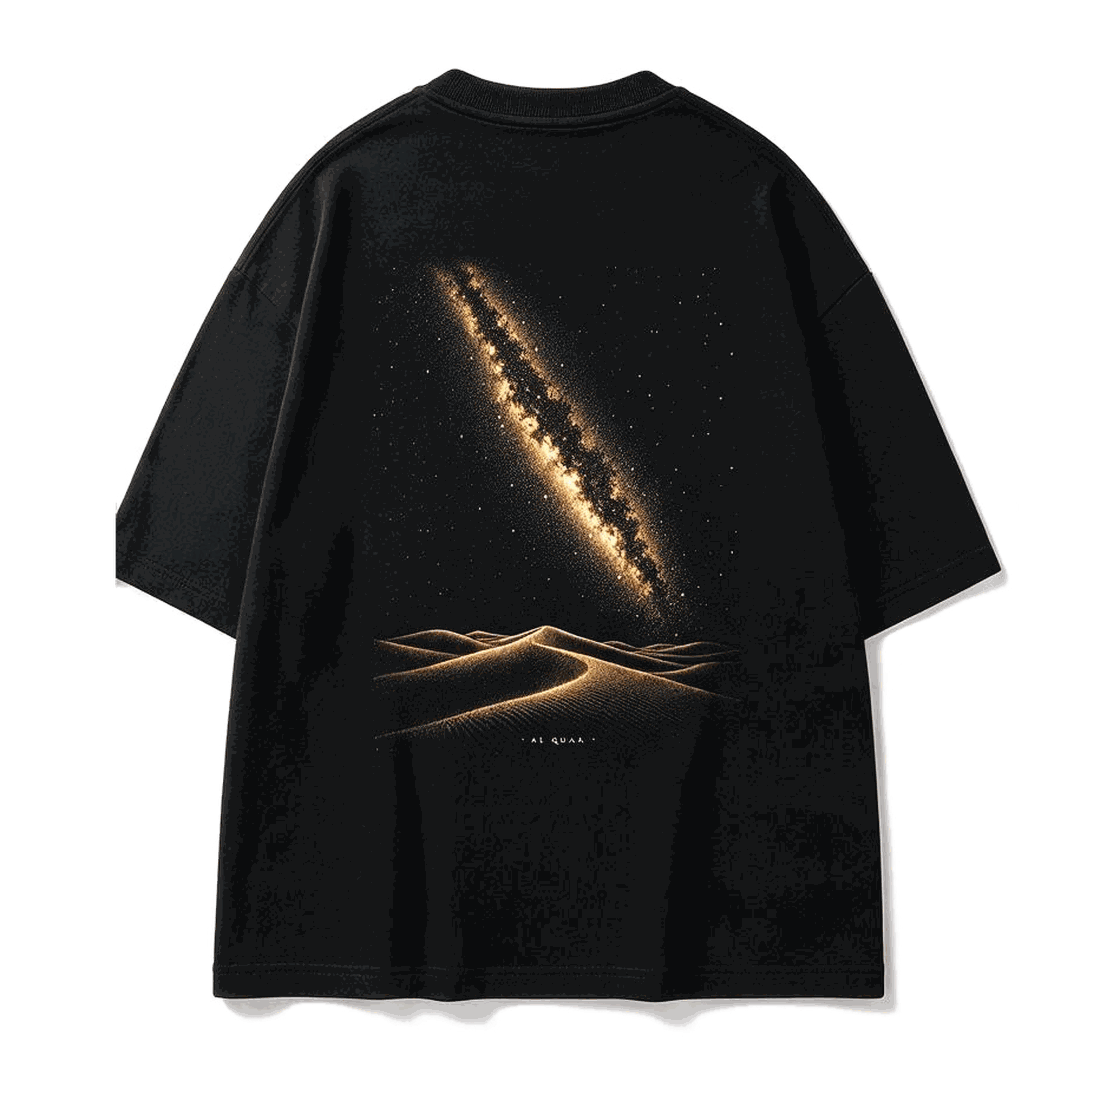
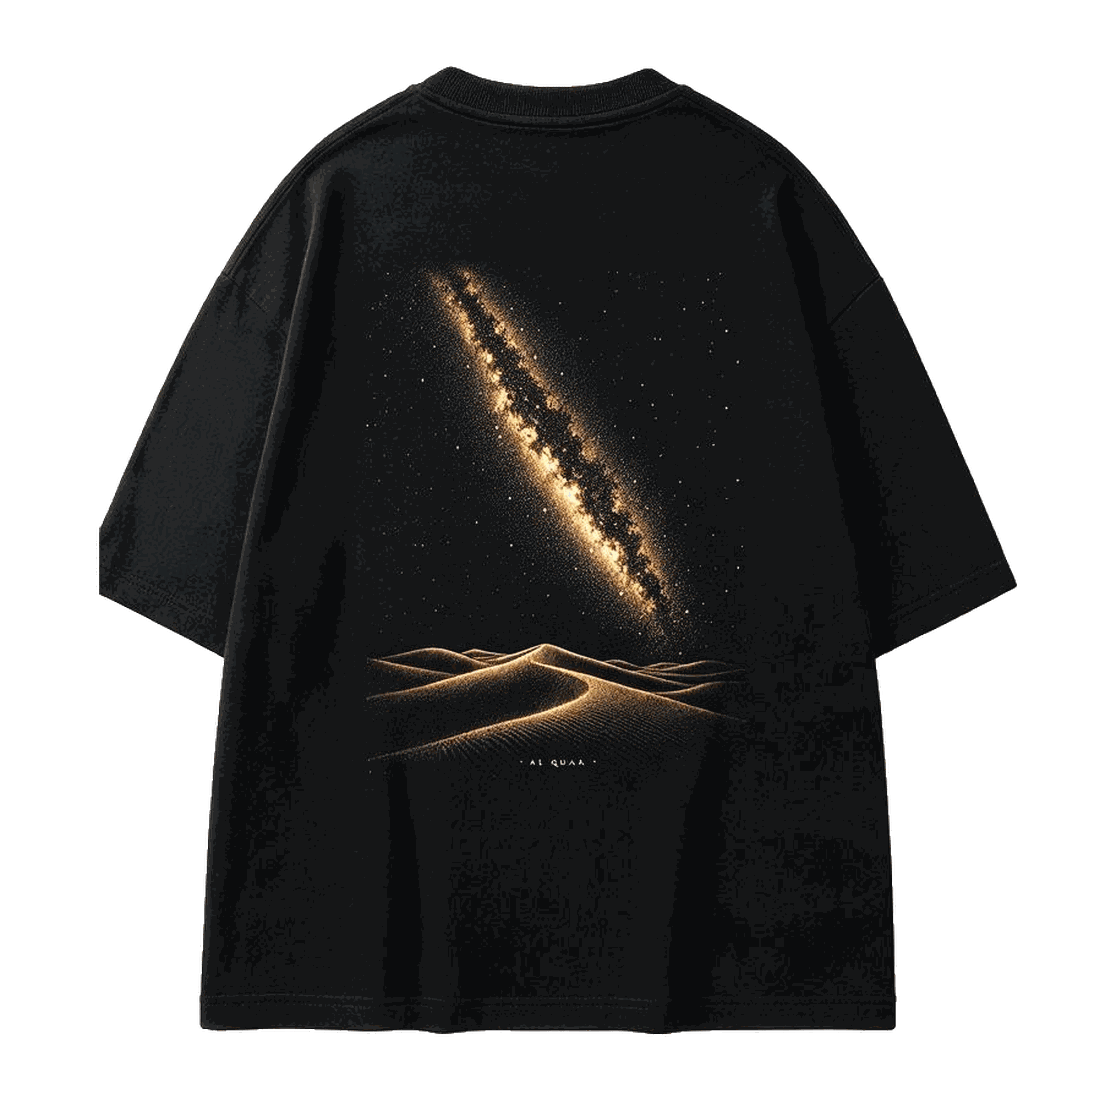
Add files via upload

diff --git a/Sahra_Design_Assessment.md b/Sahra_Design_Assessment.md
@@ -4,6 +4,17 @@
 
 ---
 
+## Live check — halo bug fixed, two images still unpushed (2026-07-31)
+
+Checked the deployed site in a real browser rather than by reading source. Findings:
+
+**1. Al Quaa IS live and correct.** `alquaa-mock-front.png` and `alquaa-mock-back.png` both return 200 and render. `og:image` is `alquaa-model-back.jpg`. Card marks are in the footer. If Faheem still sees old artwork, it's his local browser cache — the new filenames mean the CDN can't be at fault.
+
+**2. My bug — white halo on the mockups.** I built the background removal preserving the soft drop shadow as semi-transparent grey, on the assumption the panel was the light sand tone in the page's `:root`. It isn't — the coming-soon panels sit on the dark night-sky journey, so that shadow rendered as a pale fringe around the hem and sleeves. Caught only by looking at the rendered page; every earlier check composited over sand, which hid it.
+Rebuilt with a background rule of `luminance > 150 AND saturation < 28`, high enough to swallow the shadow entirely. Low saturation protects the warm gold print; border-connected components plus any enclosed light region over 2,500px are treated as background, which correctly removes the **neck opening** (previously a white patch waiting to happen on dark) while preserving the small white "AL QUAA" wordmark. Feather tightened to ~1px with no light fringe. Verified by compositing over the actual panel colour `#0D0B20` **and** over sand — clean on both. 102KB / 123KB.
+
+**3. Two images 404 on live: `final-liwa-front.jpg` and `design-taupe-front.jpg`.** Both exist locally. This is the same failure as the previous round — files added on disk but never committed. The Liwa panel on the live homepage currently shows **alt text instead of a photo**. Confirmed via the network log, not inference.
+
 ## Payments — policies rewritten against the Telr merchant checklist (2026-07-31)
 
 **Shopify Payments is not an option.** Per Shopify's own docs, UAE is early access and requires the **Plus** plan; the store is on Basic. So: third-party gateway (Telr) plus Shopify's **2% third-party transaction fee** on Basic. At AED 149 that's ~AED 7.19 all-in per order (~4.8%). Not worth upgrading the Shopify plan — Basic → Shopify saves only 1%, which doesn't cover the plan gap until roughly AED 20–25k/month.
